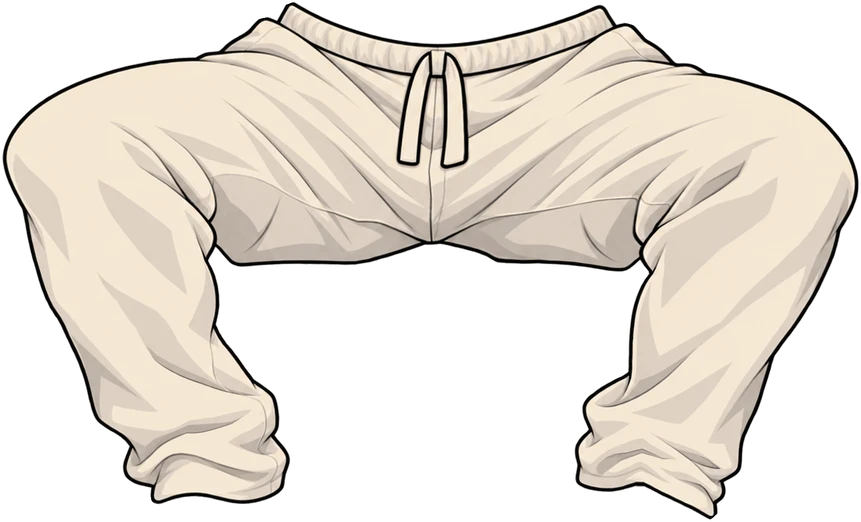
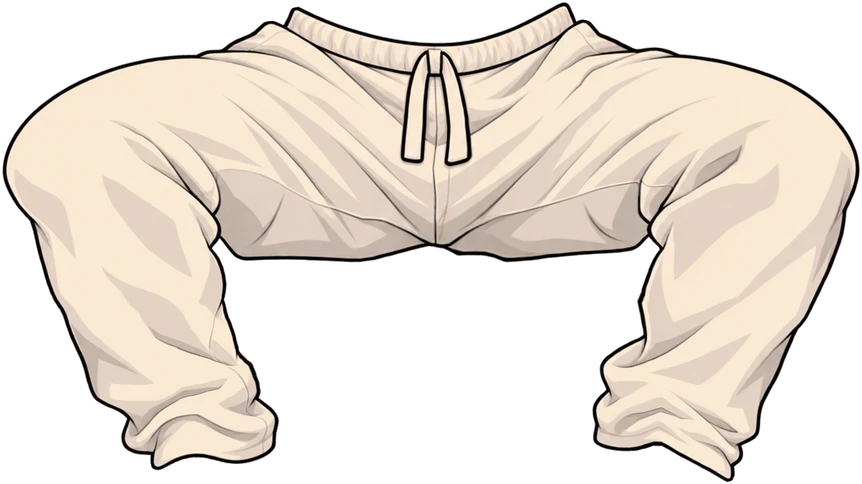
Командате: trousers redrawn by the user
Claude-Session: https://claude.ai/code/session_01E3jaUxUo8xTQNwyakAWMq3

diff --git a/src/client/preload.ts b/src/client/preload.ts
@@ -9,7 +9,7 @@ import { ASSET_FILES } from "./asset-manifest.ts";
 import { ROOM_BACKDROP, ROOM_BG } from "../content/home-scene.ts";
 
 /** cache-busting versions of redrawn art (bump when the picture changes) */
-export const ART_VER = { heroPart: 11, hair: 8, wear: 20, items: 22, pepe: 2, tattoo: 11, monitor: 2, chair: 5 } as const;
+export const ART_VER = { heroPart: 11, hair: 8, wear: 21, items: 22, pepe: 2, tattoo: 11, monitor: 2, chair: 5 } as const;
 
 /** the URL a screen really requests for a file from the manifest */
 export function usedUrl(path: string): string {

diff --git a/src/client/art/rig-look.ts b/src/client/art/rig-look.ts
@@ -120,10 +120,10 @@ export const WEAR_FIT = {
   },
   "pants-komandate": {
     "slot": "PANTS",
-    "x": 73.0,
-    "y": 670.0,
-    "w": 861,
-    "h": 522
+    "x": 69.0,
+    "y": 676.0,
+    "w": 862,
+    "h": 484
   },
   "sneakers-komandate": {
     "slot": "SHOES",
